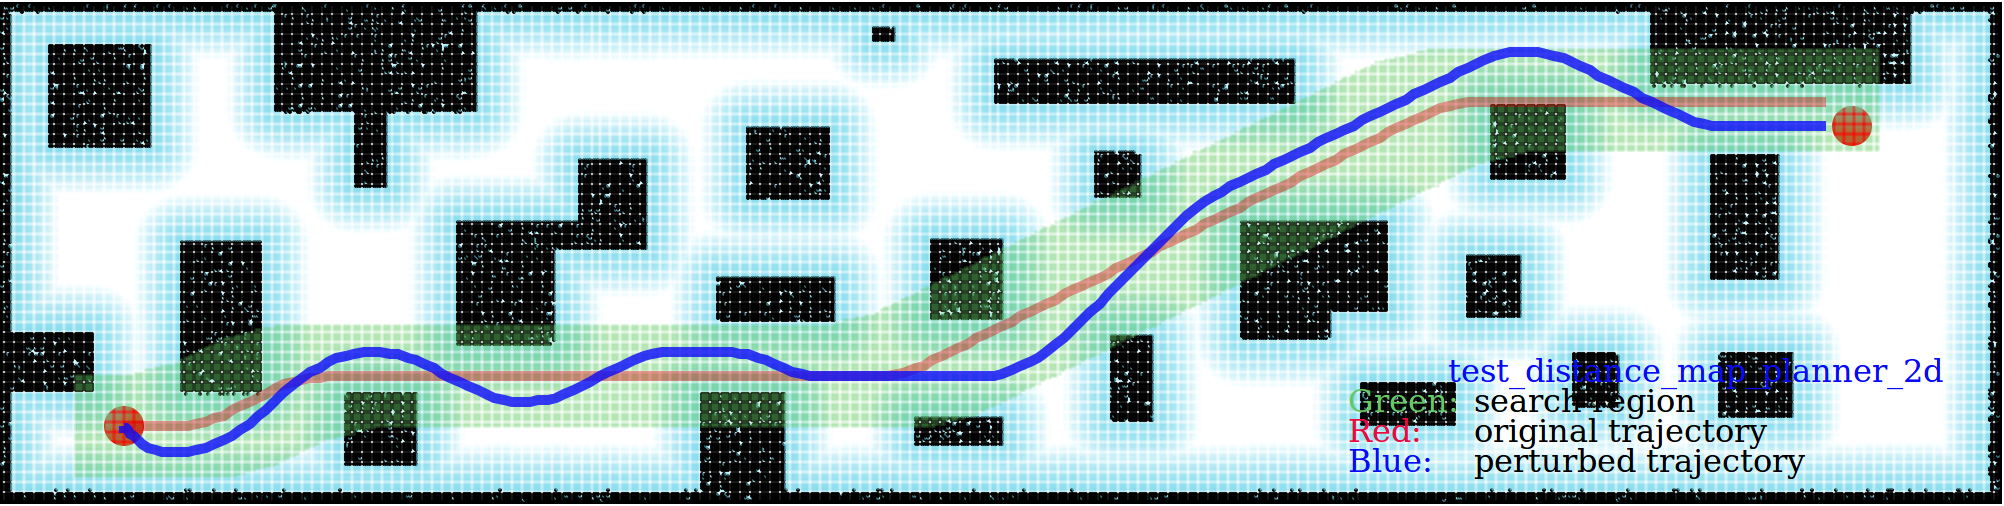
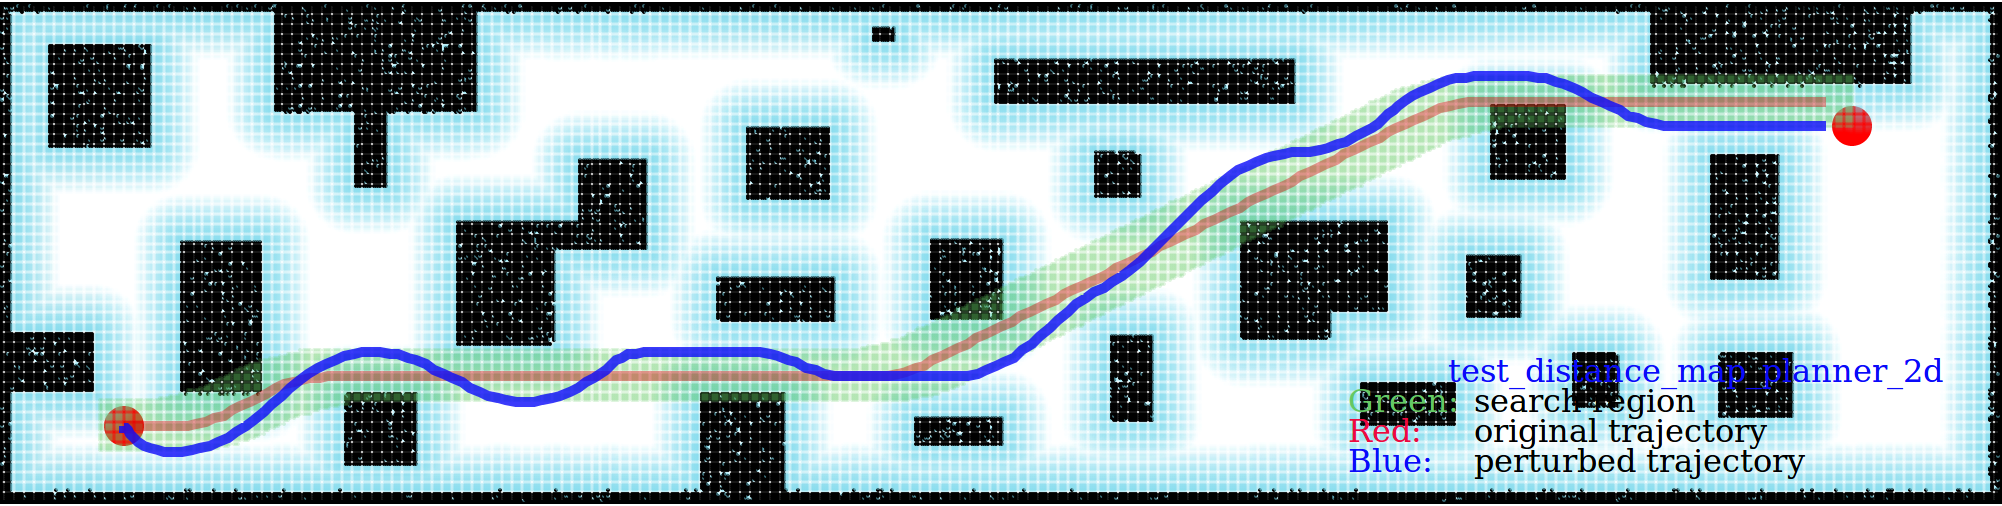
fix mity bug in print, add distance_map_planner_with_yaw

diff --git a/test/test_distance_map_planner_2d_with_yaw.cpp b/test/test_distance_map_planner_2d_with_yaw.cpp
@@ -77,13 +77,23 @@ int main(int argc, char **argv) {
 	vec_Vec2f path;
 	for(const auto& w: ws)
 		path.push_back(w.pos);
+
+  // Add yaw control input
+  decimal_t u_yaw = 0.5;
+  vec_E<VecDf> U_yaw;
+  for (decimal_t dx = -u; dx <= u; dx += du)
+    for (decimal_t dy = -u; dy <= u; dy += du)
+      for (decimal_t dyaw = -u_yaw; dyaw <= u_yaw; dyaw += u_yaw)
+        U_yaw.push_back(Vec3f(dx, dy, dyaw));
+
+
   // Initiaize planner as a distance map planner
 	planner.reset(new MPL::OccMapPlanner(true));
   planner->setMapUtil(map_util); // Set collision checking function
   planner->setVmax(1.0);         // Set max velocity
   planner->setAmax(1.0);         // Set max acceleration
   planner->setDt(1.0);           // Set dt for each primitive
-  planner->setU(U);              // Set control input
+  planner->setU(U_yaw);              // Set control input
   planner->setEpsilon(1.0);           // Set heursitic to zero
 
 	planner->setValidRegion(path, Vec2f(0.5, 0.5)); // Set search region around path
@@ -91,6 +101,10 @@ int main(int argc, char **argv) {
   planner->setPotentialWeight(1); // Set potential weight
   planner->setGradientWeight(0); // Set gradient weight
   planner->updatePotentialMap(start.pos); // Update potential map
+
+  decimal_t yaw_max = 0.5; // Set yaw max
+  start.use_yaw = true; // enable yaw
+  planner->setYawmax(yaw_max);       // Set yaw threshold
 
   // Planning
   Timer time_dist(true);
@@ -182,8 +196,8 @@ int main(int argc, char **argv) {
 		// Draw the trajectory
 		double total_t = traj_dist.getTotalTime();
 		printf("Total dist time T: %f\n", total_t);
-		printf("Total dist J:  J(VEL) = %f, J(ACC) = %f, J(JRK) = %f, J(SNP) = %f\n",
-					 traj_dist.J(Control::VEL), traj_dist.J(Control::ACC), traj_dist.J(Control::JRK), traj_dist.J(Control::SNP));
+		printf("Total dist J:  J(VEL) = %f, J(ACC) = %f, J(JRK) = %f, J(SNP) = %f, J(YAW) = %f\n",
+					 traj_dist.J(Control::VEL), traj_dist.J(Control::ACC), traj_dist.J(Control::JRK), traj_dist.J(Control::SNP), traj_dist.Jyaw());
 		int num = 200; // number of points on trajectory to draw
 		const auto ws = traj_dist.sample(num);
 		boost::geometry::model::linestring<point_2d> line;
@@ -192,10 +206,37 @@ int main(int argc, char **argv) {
 		mapper.add(line);
 		mapper.map(line,
 							 "opacity:0.8;fill:none;stroke:rgb(10,10,250);stroke-width:5"); // Blue
+
+    // Draw yaw
+    const auto ws_yaw = traj_dist.sample(20);
+    Vec2f d(0.7, 0);
+    for (const auto& w: ws_yaw) {
+      decimal_t yaw = w.yaw;
+      decimal_t yaw1 = yaw + yaw_max;
+      decimal_t yaw2 = yaw - yaw_max;
+      Mat2f Ryaw1, Ryaw2;
+      Ryaw1 << cos(yaw1), -sin(yaw1), sin(yaw1), cos(yaw1);
+      Ryaw2 << cos(yaw2), -sin(yaw2), sin(yaw2), cos(yaw2);
+      Vec2f p1 = w.pos;
+      Vec2f p2 = w.pos + Ryaw1*d;
+      Vec2f p3 = w.pos + Ryaw2*d;
+      Vec2f p4 = (p2+p3)/2;
+      boost::geometry::model::linestring<point_2d> tria;
+      tria.push_back(point_2d(p1(0), p1(1)));
+      tria.push_back(point_2d(p2(0), p2(1)));
+      tria.push_back(point_2d(p3(0), p3(1)));
+      tria.push_back(point_2d(p1(0), p1(1)));
+      tria.push_back(point_2d(p4(0), p4(1)));
+      mapper.add(tria);
+      mapper.map(tria,
+                 "opacity:0.8;fill:none;stroke:rgb(212,0,0);stroke-width:2"); // Red
+    }
+
+
 	}
 
 	// Write title at the lower right corner on canvas
-	mapper.text(point_2d(origin_x + range_x - 11, origin_y+2.4), "test_distance_map_planner_2d",
+	mapper.text(point_2d(origin_x + range_x - 13.5, origin_y+2.4), "test_distance_map_planner_2d_with_yaw",
 							"fill-opacity:1.0;fill:rgb(10,10,250);");
 
   mapper.text(point_2d(origin_x + range_x - 13, origin_y+1.8), "Green: ",

diff --git a/include/mpl_planner/env/env_map.h b/include/mpl_planner/env/env_map.h
@@ -88,17 +88,15 @@ public:
       if (pr.max_vel(i) > max_v)
         max_v = pr.max_vel(i);
     }
-    int n = std::ceil(max_v * pr.t() / map_util_->getRes());
+    int n = std::max(5, (int)std::ceil(max_v * pr.t() / map_util_->getRes()));
     decimal_t c = 0;
-    const auto pts = pr.sample(n);
-    int prev_idx = -1;
-    for (const auto &pt : pts) {
+
+    decimal_t dt = pr.t() / n;
+    for (decimal_t t = 0; t < pr.t(); t += dt) {
+      const auto pt = pr.evaluate(t);
       const Veci<Dim> pn = map_util_->floatToInt(pt.pos);
       const int idx = map_util_->getIndex(pn);
-      if(prev_idx == idx)
-        continue;
-      else
-        prev_idx = idx;
+
       if (map_util_->isOutside(pn) ||
           (!this->valid_region_.empty() &&
           !this->valid_region_[idx]))
@@ -111,8 +109,8 @@ public:
       */
       if(!potential_map_.empty()) {
         if(potential_map_[idx] < 100 && potential_map_[idx] > 0) {
-          c += potential_weight_ * potential_map_[idx] +
-            gradient_weight_ * pt.vel.norm();
+          c += dt * (potential_weight_ * potential_map_[idx] +
+            gradient_weight_ * pt.vel.norm());
         }
         else if(potential_map_[idx] >= 100)
           return std::numeric_limits<decimal_t>::infinity();
@@ -123,7 +121,7 @@ public:
         const auto v = pt.vel.template topRows<2>();
         if(v.norm() > 1e-5) { // if v is not zero
           decimal_t v_value = 1-v.normalized().dot(Vec2f(cos(pt.yaw), sin(pt.yaw)));
-          c += this->wyaw_ * v_value;
+          c += this->wyaw_ * v_value * dt;
         }
       }
     }

diff --git a/include/mpl_basis/primitive.h b/include/mpl_basis/primitive.h
@@ -558,9 +558,9 @@ void print_max(const Primitive<Dim>& p) {
     max_a(i) = p.max_acc(i);
     max_j(i) = p.max_jrk(i);
   }
-  std::cout << "max_vel: ", max_v.transpose() << std::endl;;
-  std::cout << "max_acc: ", max_a.transpose() << std::endl;;
-  std::cout << "max_jrk: ", max_j.transpose() << std::endl;;
+  std::cout << "max_vel: " << max_v.transpose() << std::endl;;
+  std::cout << "max_acc: " << max_a.transpose() << std::endl;;
+  std::cout << "max_jrk: " << max_j.transpose() << std::endl;;
 }
 
 ///Sample N+1 ellipsoids along the primitive

diff --git a/README.md b/README.md
@@ -248,13 +248,22 @@ $ ./build/test_distance_map_planner_2d ./data/corridor.yaml
 ![Visualization](./data/example4.png)
 
 
-#### Example5 (trajectory generation):
+#### Example5 (perturb trajectory with potential field and yaw constraint):
+In a more comprehensive case, when the robot has limited FOV and sensing range,
+plan the trajectory that considers safety and yaw constraint:
+```bash
+$ ./build/test_distance_map_planner_2d_with_yaw ./data/corridor.yaml
+```
+
+![Visualization](./data/example5.png)
+
+#### Example6 (trajectory generation):
 This example illustrate the `mpl_traj_solver` which is a smoothing tool to derive a smoother trajectory.
 An example of generating trajectory from a given path, without obstacles:
 ```bash
 $ ./build/test_traj_solver
 ```
-![Visualization](./data/example5.png)
+![Visualization](./data/example6.png)
 
 Here we generate three different trajectories using the same path and time allocation: the red one is minimum velocity trajectory, the green one is the minimum acceleration trajectory and the blue one is the minimum jerk trajectory.
 
